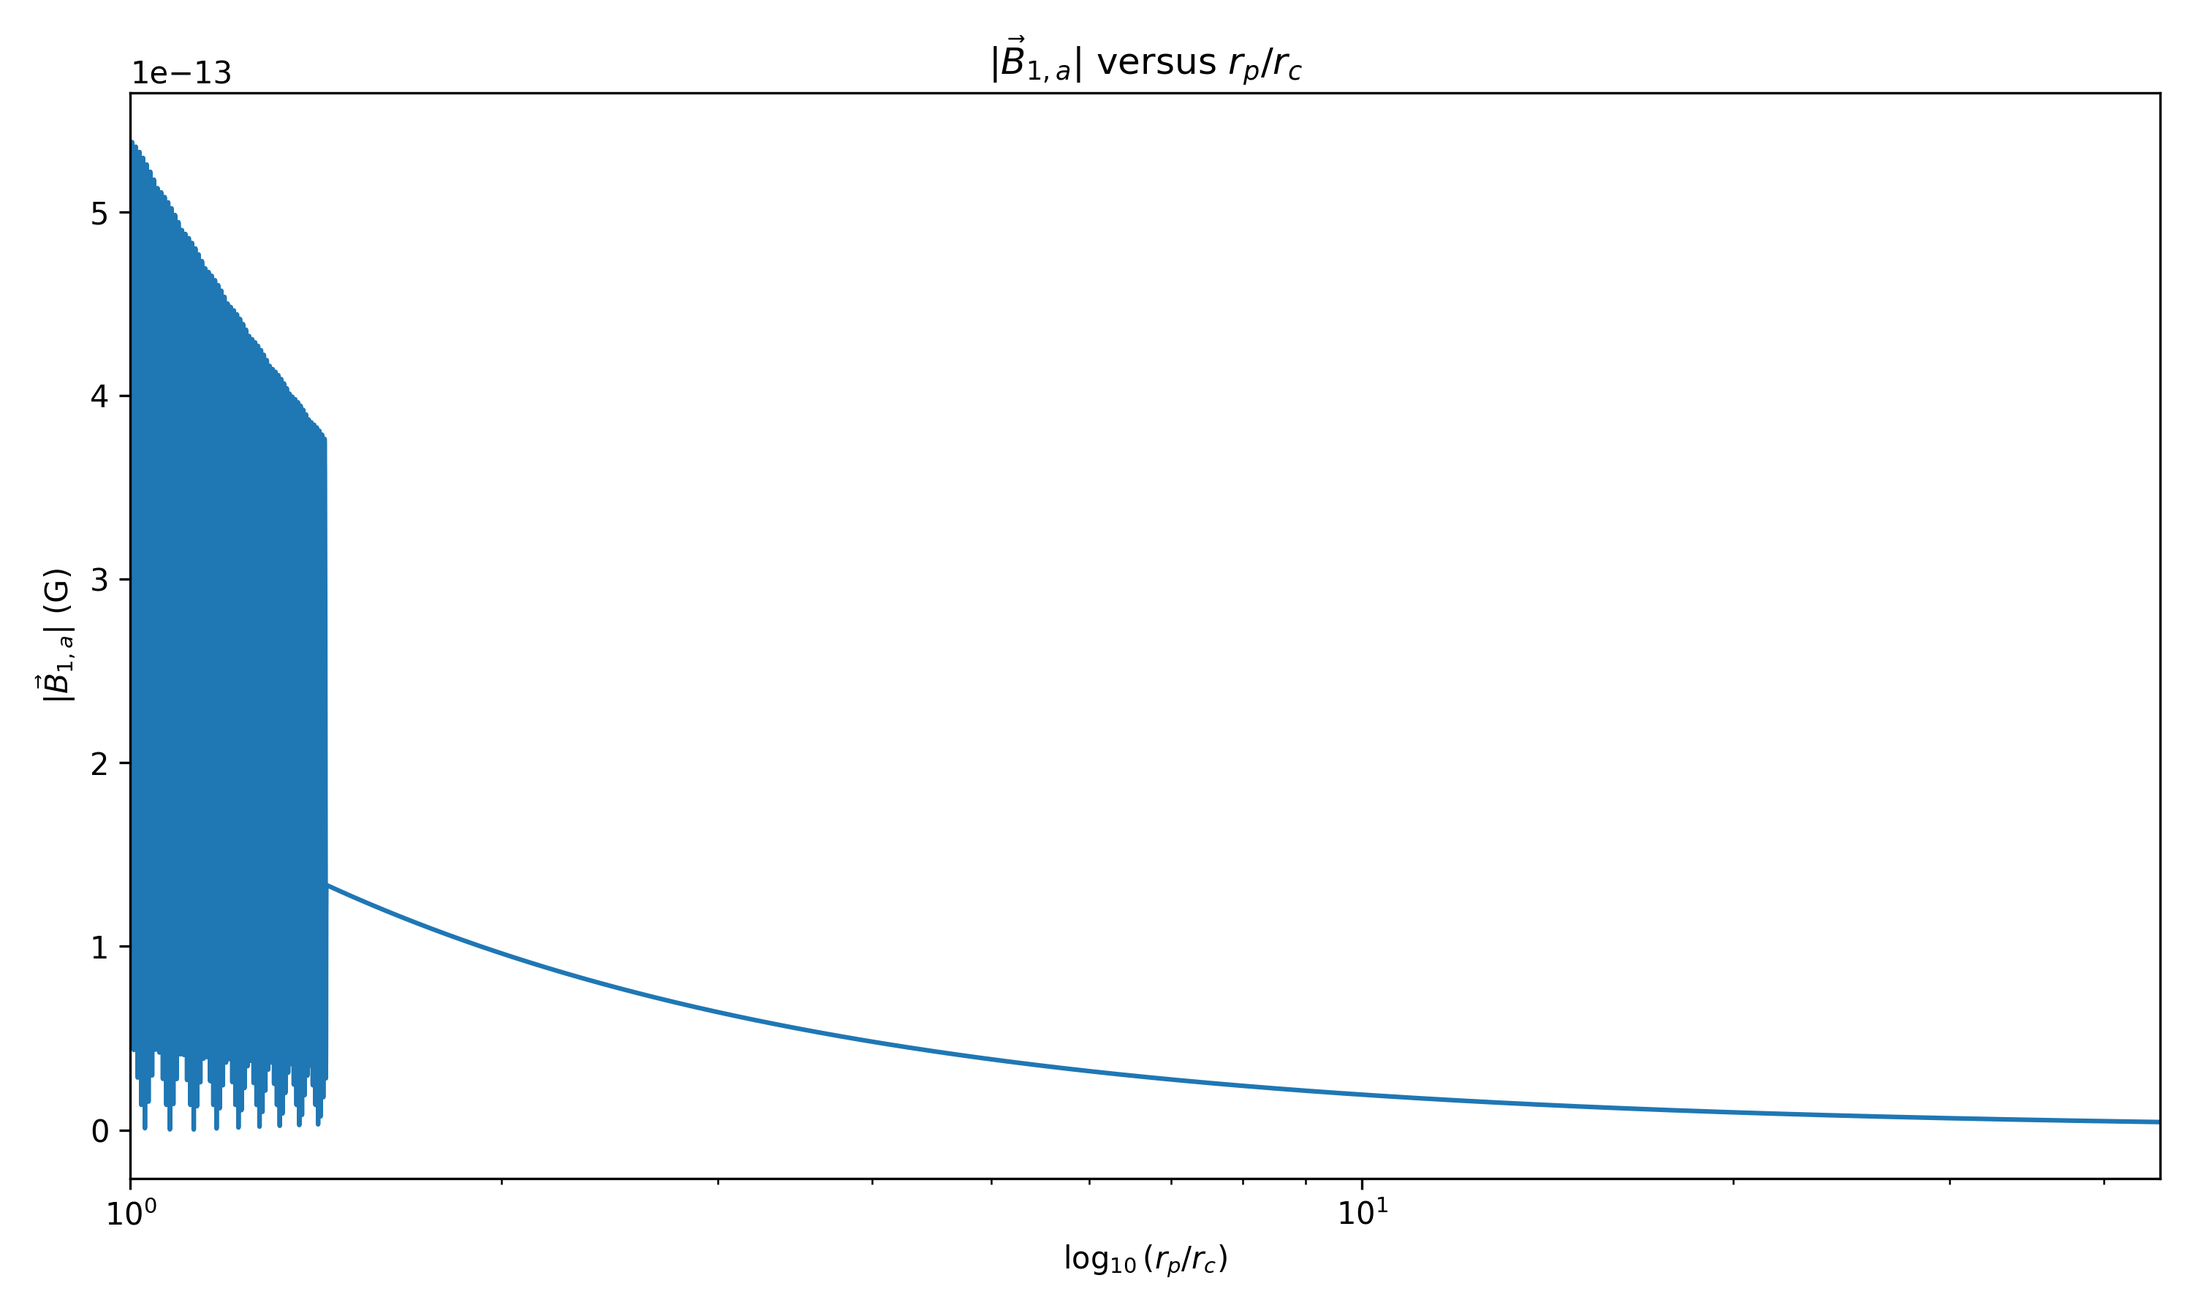
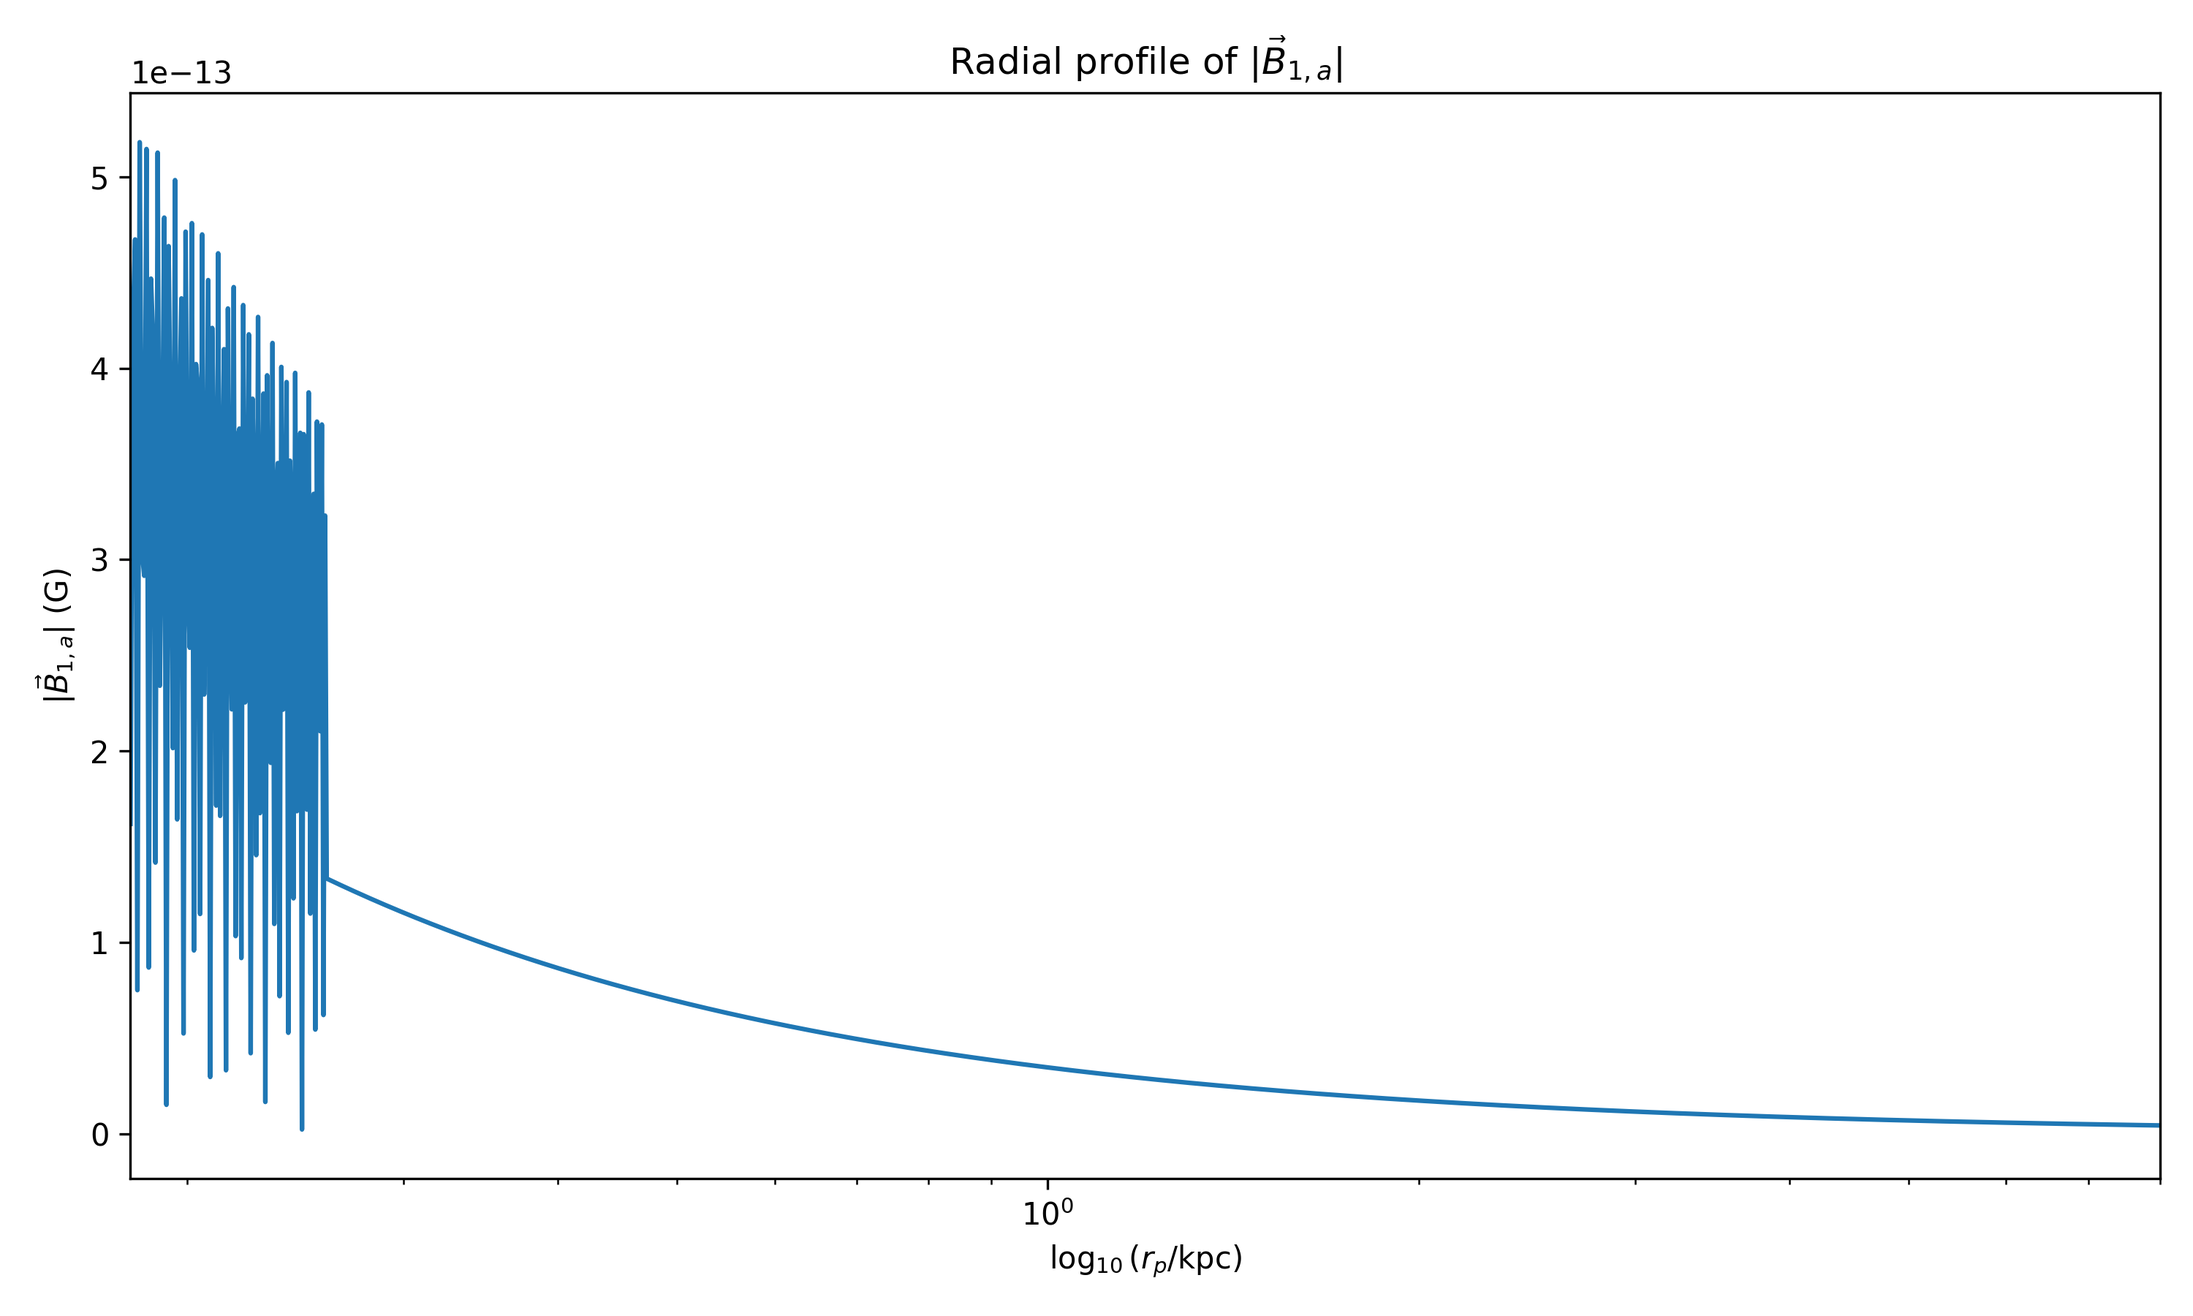
In progress

diff --git a/zeeman.py b/zeeman.py
@@ -80,20 +80,16 @@ def gen_params(potential_type):
 
     if potential_type == "sech":
         f = 1e19 # Energy scale of axion (eV)
-        m_a = 1e-5 # Axion mass, 1e-18 to 1e-22 (eV)
-        omega_a = m_a # Oscillation frequency of axion (eV)
+        m_a = 1e-5 # Axion mass (eV)
 
-        return f, m_a, omega_a
+        return f, m_a
 
     elif potential_type == "flat":
         f = 1e26 # Energy scale of axion (eV)
         m_a = 1e-22 # Axion mass, 1e-18 to 1e-22 (eV)
         m_d = 1e-22 # Dark photon mass, 1e-18 to 1e-22 (eV)
-        mu = 0 # Chemical potential of dark photon (eV)
-        omega_a = m_a # Oscillation frequency of axion (eV)
-        omega_d = m_d - mu # Oscillation frequency of dark photon (eV)
 
-        return f, m_a, m_d, mu, omega_a, omega_d
+        return f, m_a, m_d
 
 # Calculate the energy density at the centre of the soliton
 def calculate_rho0(m):
@@ -170,17 +166,18 @@ def calculate_gac(potential_type, f):
     return g_ac
 
 # Calculate the magnitude of magnetic field
-def calculate_B1(potential_type, particle_type, t, m, omega, f, epsilon, r_p, B_bar, real=True):
+def calculate_B1(potential_type, particle_type, t, m, f, epsilon, r_p, B_bar, real=True):
     """
     Args:
         potential_type (str): Type of potential ("sech" or "flat").
         particle_type (str): Type of particle ("axion" or "dark photon").
         t (float): Time.
         m (float): Particle mass.
-        omega (float): Oscillation frequency.
         f (float): Energy scale of axion.
         epsilon (float): Photon-dark photon coupling strength
-        real (bool, optional): Whether to take the real parts of magnetic field components. Defaults to True.
+        r_p (float): Distance of measurement point from Galactic Centre
+        B_bar (float): Magnitude of the background magnetic field 
+        real (bool, optional): Whether to take the real parts of the magnetic field components. Defaults to True.
 
     Returns:
         float: Magnitude of the magnetic field.
@@ -188,8 +185,8 @@ def calculate_B1(potential_type, particle_type, t, m, omega, f, epsilon, r_p, B_
 
     # sech potential
     if potential_type == "sech":
-        g_ac = calculate_gac(potential_type, f)
-        phi0 = 3 * f # Amplitude of axion potential (eV)
+        g_ac = calculate_gac(potential_type, f) # Calculate the axion-photon coupling strength
+        phi0 = 3 * f # Calculate the axion field strength (eV)
         omega = 0.8 * m # Oscillation frequency (eV)
         R = 2 / m # Radius of axion star (eV^-1)
 
@@ -207,17 +204,20 @@ def calculate_B1(potential_type, particle_type, t, m, omega, f, epsilon, r_p, B_
         # Calculate the energy density at the centre of the soliton
         rho0 = calculate_rho0(m)
 
-        # Calculate the amplitude of fields
+        # Calculate the axion field strength
         phi0 = calculate_phi(rho0, m)
-        A0 = phi0
+        A0 = phi0 # Dark photon field strength
 
         # Set parameters based on the particle type
         if particle_type == "axion":
-            g_ac = calculate_gac(potential_type, f)
-            B_bar_x, B_bar_y, B_bar_z = 0, B_bar, 0 # Decompose B_bar into Cartesian coordinates
+            g_ac = calculate_gac(potential_type, f) # Calculate the axion-photon coupling strength
+            omega = m
+            B_bar_x, B_bar_y, B_bar_z = 0, B_bar, 0 # Decompose B_bar into Cartesian components
             coeff = omega * g_ac * phi0 # Coefficient for axion
 
         elif particle_type == "dark photon":
+            mu = 0 # Chemical potential
+            omega = m - mu
             B_bar_x, B_bar_y, B_bar_z = 1 / np.sqrt(2), j / np.sqrt(2), 0 # Pseudo-magnetic field representing the circular polarization vector
             coeff = epsilon * m**2 * A0 # Coefficient for dark photon
         
@@ -232,7 +232,7 @@ def calculate_B1(potential_type, particle_type, t, m, omega, f, epsilon, r_p, B_
         B1_y_complex = coeff * np.exp(- j * omega * t) * - B_bar_x * I
         B1_z_complex = 0 # No contribution in the z direction
 
-        # Compute magnitudes
+        # Compute magnitudes of B1 components
         if real:
             B1_x = np.real(B1_x_complex)
             B1_y = np.real(B1_y_complex)
@@ -306,12 +306,17 @@ def calculate_E_hf(state):
 
     if state == "triplet":
         factor = 1 / 4
+
     elif state == "singlet":
         factor = - 3 / 4
+
     else:
         print("Invalid state")
+
         return None
+    
     E_hf = 4 * g_p * hbar**4 / (3 * m_p * m_e**2 * c**2 * r_e**4) * factor
+
     return E_hf
 
 # Calculate the frequency of light
@@ -325,6 +330,7 @@ def calculate_nu(E):
     """
 
     nu = E / h
+
     return nu
 
 # Calculate the shift in energy
@@ -377,11 +383,6 @@ def plot_data(xs, yss, plotlabels, xlabel, ylabel, title, figure_name, xlog=Fals
             if plotlabel:
                 ax.legend()
 
-        if xlog:
-            plt.xscale("log")
-        if ylog:
-            plt.yscale("log")
-
         # Set the x label
         plt.xlabel(xlabel)
 
@@ -404,12 +405,7 @@ def plot_data(xs, yss, plotlabels, xlabel, ylabel, title, figure_name, xlog=Fals
         # Set the x limit
         plt.xlim(np.min(xs), np.max(xs))
 
-        if xlog:
-            plt.xscale("log")
-        if ylog:
-            plt.yscale("log")
-
-        # Set the labels
+        # Set the axes labels
         plt.xlabel(xlabel)
         plt.ylabel(ylabel)
 
@@ -419,6 +415,12 @@ def plot_data(xs, yss, plotlabels, xlabel, ylabel, title, figure_name, xlog=Fals
         # Add the legend if label is provided
         if plotlabel:
             plt.legend()
+
+    # Set the axes to logarithmic scale if necessary
+    if xlog:
+        plt.xscale("log")
+    if ylog:
+        plt.yscale("log")
 
     # Adjust the spacing between subplots
     plt.tight_layout()
@@ -431,36 +433,8 @@ def plot_data(xs, yss, plotlabels, xlabel, ylabel, title, figure_name, xlog=Fals
     # Show the plot
     plt.show()
 
-# Generate meshgrid
-def gen_meshgrid(x_range, y_range, z_range, num_points):
-    """
-    Args:
-        x_range (tuple): The range of values for the x-axis.
-        y_range (tuple): The range of values for the y-axis.
-        z_range (tuple): The range of values for the z-axis.
-        num_points (int): The number of points to generate along each axis.
-
-    Returns:
-        tuple: Three arrays representing the x, y, and z coordinates of the meshgrid points.
-    """
-
-    # Generate evenly spaced data points along each axis
-    xs = np.linspace(x_range[0], x_range[1], num_points)
-    ys = np.linspace(y_range[0], y_range[1], num_points)
-    zs = np.linspace(z_range[0], z_range[1], num_points)
-
-    # Create a meshgrid for 3D plotting
-    X, Y, Z = np.meshgrid(xs, ys, zs)
-
-    # Flatten the meshgrid for scatter plotting
-    xs = X.flatten()
-    ys = Y.flatten()
-    zs = Z.flatten()
-
-    return xs, ys, zs
-
 # Plots the 3D data
-def plot3D_data(xs, ys, zs, ws, xlabel, ylabel, zlabel, wlabel, title, figure_name, cmap_name="plasma_r", alpha=0.7, s=20, save=False):
+def plot3D_data(xs, ys, zs, ws, xlabel, ylabel, zlabel, wlabel, title, figure_name, xlog=False, ylog=False, zlog=False, cmap_name="plasma_r", alpha=0.7, s=20, save=False):
     """
     Args:
         xs (array): x-coordinates of the data points.
@@ -473,6 +447,9 @@ def plot3D_data(xs, ys, zs, ws, xlabel, ylabel, zlabel, wlabel, title, figure_na
         wlabel (str): Label for the colorbar.
         title (str): Title of the plot.
         figure_name (str): Name of the file to save the plot (if save is True).
+        xlog (bool, optional): Set the x-axis to logarithmic scale. Defaults to False.
+        ylog (bool, optional): Set the y-axis to logarithmic scale. Defaults to False.
+        zlog (bool, optional): Set the z-axis to logarithmic scale. Defaults to False.
         cmap_name (str, optional): Name of the colormap to use. Defaults to "plasma".
         alpha (float, optional): Transparency of the markers. Defaults to 0.7.
         s (int, optional): Size of the markers. Defaults to 20.
@@ -493,11 +470,19 @@ def plot3D_data(xs, ys, zs, ws, xlabel, ylabel, zlabel, wlabel, title, figure_na
     cbar = plt.colorbar(scatter)
     cbar.set_label(wlabel)
 
-    # Set axis labels
+    # Set the axes labels
     ax.set_xlabel(xlabel)
     ax.set_ylabel(ylabel)
     ax.set_zlabel(zlabel)
 
+    # Set the axes to logarithmic scale if necessary
+    if xlog:
+        ax.set_xscale("log")
+    if ylog:
+        ax.set_yscale("log")
+    if zlog:
+        ax.set_zscale("log")
+    
     # Set the title
     plt.title(title)
 
@@ -512,6 +497,29 @@ def plot3D_data(xs, ys, zs, ws, xlabel, ylabel, zlabel, wlabel, title, figure_na
     # Show the plot
     plt.show()
 
+# Generate meshgrid
+def gen_meshgrid(ranges, num_points, log=False):
+    """
+    Args:
+        ranges (list of tuples): A list of tuples, where each tuple defines the range for that dimension.
+        num_points (int): The number of points to generate along each axis.
+        log (bool, optional): Use logspace instead. Defaults to False.
+
+    Returns:
+        tuple: A list of arrays representing the coordinates of the meshgrid points in each dimension.
+    """
+    
+    # Generate evenly spaced data points along each axis
+    if log:
+        grids = [np.logspace(range[0], range[1], num_points) for range in ranges]
+    else:
+        grids = [np.linspace(range[0], range[1], num_points) for range in ranges]
+    
+    # Create a meshgrid for n-dimensional plotting
+    meshgrid = np.meshgrid(*grids, indexing="ij")
+    
+    return meshgrid
+
 # Main program
 def main():
     # Define the paths for the folders
@@ -523,14 +531,14 @@ def main():
             os.makedirs(folder)
 
     # Calculate the distance of L1544 from Galactic Centre (pc)
-    r_p = np.linalg.norm(cart_gctol1544.xyz)
+    r_p_pc = np.linalg.norm(cart_gctol1544.xyz)
 
     # Calculate the angle between the vector from Galactic Centre to L1544 and the vector to L1544
-    angle = np.arccos(np.dot(cart_gctol1544.xyz, cart_l1544.xyz) / (r_p * np.linalg.norm(cart_l1544.xyz)))
+    angle = np.arccos(np.dot(cart_gctol1544.xyz, cart_l1544.xyz) / (r_p_pc * np.linalg.norm(cart_l1544.xyz)))
     print(f"The angle between the vector from Galactic Centre to L1544 and the vector to L1544 is {angle:.2e}.")
 
     # Calculate distance of L1544 from Galactic Centre (eV^-1)
-    r_p = r_p.value * pc_to_m * m_to_eVminus1
+    r_p = r_p_pc.value * pc_to_m * m_to_eVminus1
     print(f"The distance of L1544 from Galactic Centre is {r_p:.2e}eV^-1.")
 
     # Calculate the internal magnetic field of a hydrogen atom
@@ -538,7 +546,7 @@ def main():
     print(f"The magnitude of internal magnetic field is roughly {B_int:.2f}T.")
 
     # Specify the potential and particle types
-    potential_type = "sech" # sech or flat
+    potential_type = "flat" # sech or flat
     particle_type = "axion" # axion or dark photon
 
     # Background magnetic field (T)
@@ -547,12 +555,12 @@ def main():
 
     # Set parameters based on potential type
     if potential_type == "sech":
-        f, m_a, omega_a = gen_params(potential_type)
+        f, m_a = gen_params(potential_type)
         g_ac = calculate_gac(potential_type, f) # Axion-photon coupling strength
         epsilon = 1e-3 # Photon-dark photon coupling strength, 1e-5 to 1e-3
 
     elif potential_type == "flat":
-        f, m_a, m_d, mu, omega_a, omega_d = gen_params(potential_type)
+        f, m_a, m_d = gen_params(potential_type)
         g_ac = calculate_gac(potential_type, f) # Axion-photon coupling strength
         epsilon = 1e-3 # Photon-dark photon coupling strength, 1e-5 to 1e-3
 
@@ -561,19 +569,28 @@ def main():
 
     # Set mass and oscillation frequency based on particle type
     if particle_type == "axion":
-        m, omega = m_a, omega_a
+        m, omega = m_a, m_a
     elif particle_type == "dark photon":
-        m, omega = m_d, omega_d
+        m, omega = m_d, m_d
+
+    # Parameter space
+    m_as = np.linspace(1e-22, 1e-18, 100)
+    m_ds = np.linspace(1e-22, 1e-18, 100)
+    f_as = np.linspace(1e23, 1e27, 100)
+    epsilons = np.linspace(1e-5, 1e-3,100)
+    m_as, f_as = np.meshgrid(m_as, f_as)
+    B1params_a = calculate_B1("flat", "axion", 0, m_as, f_as, epsilon, 8000 * pc_to_m * m_to_eVminus1, B_bar, real=False)
+    B1params_d = calculate_B1("flat", "dark photon", 0, m_ds, f, epsilons, 8000 * pc_to_m * m_to_eVminus1, B_bar, real=False)
 
     # Calculate the period of oscillation
-    period = period = 2 * np.pi / omega / s_to_eVminus1
+    period = 2 * np.pi / omega / s_to_eVminus1
     print(f"Period: {round(period / year, 2)}yr.")
 
     # Define the time range
     ts = np.linspace(0, 4 * period, 1000)
 
     # Calculate B1 values
-    B1s = np.array([calculate_B1(potential_type, particle_type, t * s_to_eVminus1, m, omega, f, epsilon, r_p, B_bar) for t in ts])
+    B1s = np.array([calculate_B1(potential_type, particle_type, t * s_to_eVminus1, m, f, epsilon, r_p, B_bar) for t in ts])
 
     # Calculate the shift in energy for each B1
     delta_Es = np.array([calculate_delta_E(B1) for B1 in B1s])
@@ -601,15 +618,24 @@ def main():
 
     # Plot B1 versus distance of measurement point from Galactic Centre (r_p)
     r_ps = np.linspace(1 * r_c, 8000 * pc_to_m * m_to_eVminus1, 10000)
-    f, m_a, m_d, mu, omega_a, omega_d = gen_params("flat")
-    B1r_ps_a = np.array([calculate_B1("flat", "axion", 0, m_a, omega_a, f, epsilon, r_p, B_bar, real=False) for r_p in r_ps])
-    B1r_ps_d = np.array([calculate_B1("flat", "dark photon", 0, m_d, omega_d, f, epsilon, r_p, B_bar, real=False) for r_p in r_ps])
+    r_ps_res = np.linspace(1 * r_c, 1.5 * r_c, 10000)
+    f, m_a, m_d = gen_params("flat")
+    B1r_ps_a = np.array([calculate_B1("flat", "axion", 0, m_a, f, epsilon, r_p, B_bar, real=False) for r_p in r_ps])
+    B1r_ps_d = np.array([calculate_B1("flat", "dark photon", 0, m_d, f, epsilon, r_p, B_bar, real=False) for r_p in r_ps])
+    B1r_ps_a_res = np.array([calculate_B1("flat", "axion", 0, m_a, f, epsilon, r_p, B_bar, real=False) for r_p in r_ps_res])
+    B1r_ps_d_res = np.array([calculate_B1("flat", "dark photon", 0, m_d, f, epsilon, r_p, B_bar, real=False) for r_p in r_ps_res])
 
     # Plot B1 versus r_p for axion
-    plot_data(r_ps / r_c, B1r_ps_a / 1e-4, "", r"$\log_{10}(r_p/r_c)$", r"$|\vec{B}_{1, a}|$ (G)", r"$|\vec{B}_{1, a}|$ versus $r_p/r_c$", f"B1vsrpflataxionm{m_a}.png", xlog=True, save=True)
+    plot_data(r_ps / (1000 * pc_to_m * m_to_eVminus1), B1r_ps_a / 1e-4, "", r"$\log_{10}(r_p/\mathrm{kpc})$", r"$|\vec{B}_{1, a}|$ (G)", r"Radial profile of $|\vec{B}_{1, a}|$", f"B1vsrpflataxionm{m_a}.png", xlog=True, save=True)
+    
+    # Restrict the radial range for plotting
+    plot_data(r_ps_res / (1000 * pc_to_m * m_to_eVminus1), B1r_ps_a_res / 1e-4, "", r"$r_p/\mathrm{kpc}$", r"$|\vec{B}_{1, a}|$ (G)", r"Radial profile of $|\vec{B}_{1, a}|$", f"B1vsrpflataxionm{m_a}res.png", save=True)
     
     # Plot B1 versus r_p for dark photon
-    plot_data(r_ps / r_c, B1r_ps_d / 1e-4, "", r"$\log_{10}(r_p/r_c)$", r"$|\vec{B}_{1, \vec{A}'}|$ (G)", r"$|\vec{B}_{1, \vec{A}'}|$ versus $r_p/r_c$", f"B1vsrpflatdarkphotonm{m_d}.png", xlog=True, save=True)
+    plot_data(r_ps / (1000 * pc_to_m * m_to_eVminus1), B1r_ps_d / 1e-4, "", r"$\log_{10}(r_p/\mathrm{kpc})$", r"$|\vec{B}_{1, \vec{A}'}|$ (G)", r"Radial profile of $|\vec{B}_{1, \vec{A}'}|$", f"B1vsrpflatdarkphotonm{m_d}.png", xlog=True, save=True)
+    
+    # Restrict the radial range for plotting
+    plot_data(r_ps_res / (1000 * pc_to_m * m_to_eVminus1), B1r_ps_d_res / 1e-4, "", r"$r_p/\mathrm{kpc}$", r"$|\vec{B}_{1, \vec{A}'}|$ (G)", r"Radial profile of $|\vec{B}_{1, \vec{A}'}|$", f"B1vsrpflatdarkphotonm{m_d}res.png", save=True)
     
     # Plot the soliton profile for flat potential and axion
     if potential_type == "flat" and particle_type == "axion":
@@ -623,7 +649,7 @@ def main():
         z_range = (- 2 * r_c, 2 * r_c)
 
         # Generate the meshgrid
-        xs, ys, zs = gen_meshgrid(x_range, y_range, z_range, 15)
+        xs, ys, zs = [g.flatten() for g in gen_meshgrid([x_range, y_range, z_range], 15)]
         xs_scaled = xs / r_c
         ys_scaled = ys / r_c
         zs_scaled = zs / r_c
@@ -644,7 +670,7 @@ def main():
         plot_data(rs_scaled, rhos, None, r"$r/r_{c}$", r"$\rho$ ($\mathrm{eV}^{4}$)", "Axion density profile", f"axionrho.png", save=True)
 
         # Plot exact and approximate axion density profiles
-        plot_data(rs_scaled, [rhos, rhos_rc, rhos_mod], ["Exact", r"Cutoff at $r_c$", r"Cutoff at $\sim 1.44r_c$"], r"$r/r_{c}$", r"$\rho$ ($\mathrm{eV}^{4}$)", "Axion field strength", "axionrhostep.png", save=True)
+        plot_data(rs_scaled, [rhos, rhos_rc, rhos_mod], ["Exact", r"Cutoff at $r_c$", r"Cutoff at $\sim 1.44r_c$"], r"$r/r_{c}$", r"$\rho$ ($\mathrm{eV}^{4}$)", "Axion density profile", "axionrhostep.png", save=True)
 
         # Plot axion density profile in 3D
         plot3D_data(xs_scaled, ys_scaled, zs_scaled, rhos_3d, r"$x/r_c$", r"$y/r_c$", r"$z/r_c$", r"$\rho$ ($\mathrm{eV}^{4}$)", "Axion density profile in 3D", "axionrho3d.png", save=True)
